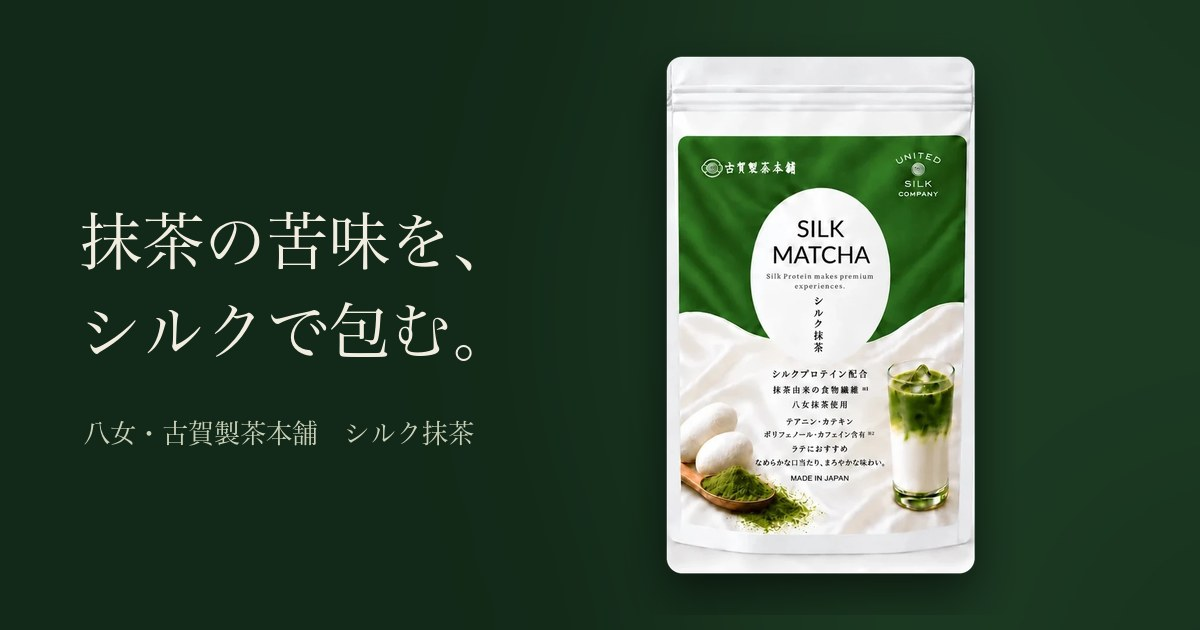
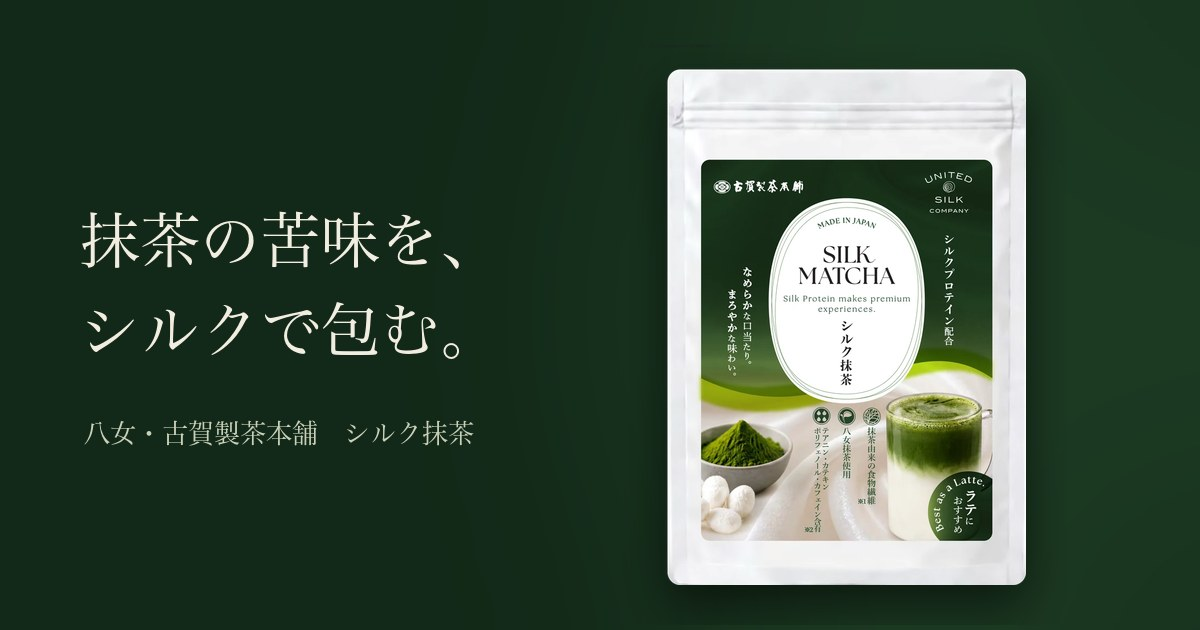
シルク抹茶デモ：新パッケージ（A案）とロゴを反映

diff --git a/p/sm-d1888c64/index.html b/p/sm-d1888c64/index.html
@@ -14,7 +14,7 @@
 <meta name="theme-color" content="#122818">
 <link rel="preconnect" href="https://fonts.googleapis.com">
 <link rel="preconnect" href="https://fonts.gstatic.com" crossorigin>
-<link href="https://fonts.googleapis.com/css2?family=Shippori+Mincho+B1:wght@500;600;700;800&family=Noto+Sans+JP:wght@400;500;700&family=Cormorant+Garamond:ital,wght@0,500;0,600;1,500&display=swap" rel="stylesheet">
+<link href="https://fonts.googleapis.com/css2?family=Marcellus&family=Shippori+Mincho+B1:wght@500;600;700;800&family=Noto+Sans+JP:wght@400;500;700&family=Cormorant+Garamond:ital,wght@0,500;0,600;1,500&display=swap" rel="stylesheet">
 <style>
 :root{
   --deep:#122818; --matcha:#24472b; --leaf:#7aa244; --pale:#dfe6cf;
@@ -69,13 +69,18 @@ h1,h2,h3{font-family:var(--mincho);font-weight:700;letter-spacing:.08em;font-fea
 .ring svg{position:absolute;inset:0;width:100%;height:100%}
 .ring circle{fill:none;stroke:var(--leaf);stroke-width:1;stroke-dasharray:503;stroke-dashoffset:503;transform:rotate(-90deg);transform-origin:center}
 .ring .t{writing-mode:vertical-rl;font-family:var(--mincho);font-weight:600;font-size:17px;letter-spacing:.3em;color:var(--cream);margin-top:.3em;line-height:1}
-.pc{position:absolute;left:0;right:0;top:calc(50% + 110px);text-align:center;font-family:var(--en);font-weight:600;font-size:13px;letter-spacing:.3em;color:#aeb99c}
+.lwrap{display:flex;flex-direction:column;align-items:center;gap:22px}
+.ldlogo{height:min(200px,26vh);width:auto;opacity:0;filter:drop-shadow(0 20px 40px rgba(0,0,0,.35))}
+.lbar{width:120px;height:1px;background:rgba(255,255,255,.15);overflow:hidden}
+.lbar i{display:block;height:100%;background:var(--leaf);transform-origin:left;transform:scaleX(0)}
+.pc{text-align:center;font-family:var(--en);font-weight:600;font-size:13px;letter-spacing:.3em;color:#aeb99c}
 
 /* header（固定・動かさない） */
 .hd{position:fixed;inset:0 0 auto;z-index:60;height:64px;display:flex;justify-content:space-between;align-items:center;padding:0 var(--gut);color:var(--cream);transition:background-color .5s linear,color .5s linear,box-shadow .5s linear}
 .hd.solid{background:rgba(250,248,242,.95);-webkit-backdrop-filter:blur(12px);backdrop-filter:blur(12px);color:var(--ink);box-shadow:0 1px 0 var(--line)}
-.brand{display:flex;align-items:baseline;gap:12px}
-.brand .en{font-family:var(--en);font-weight:600;font-size:17px;letter-spacing:.32em}
+.brand{display:flex;align-items:center;gap:12px}
+.blogo{height:40px;width:auto;filter:drop-shadow(0 2px 6px rgba(0,0,0,.2))}
+.brand .en{font-family:"Marcellus",serif;font-size:18px;letter-spacing:.2em}
 .brand .ja{font-family:var(--mincho);font-size:12px;letter-spacing:.2em;opacity:.8}
 .hd nav{display:flex;gap:28px;font-family:var(--mincho);font-size:14px;letter-spacing:.14em}
 .hd nav a{position:relative;opacity:.85}
@@ -302,7 +307,8 @@ form .send{justify-self:center;margin-top:10px}
 .thanks.on path{stroke-dashoffset:0}
 
 footer{background:var(--deep);color:#a9b39b;padding:100px 20px 130px;text-align:center;font-size:13px;line-height:2.2;overflow:hidden}
-footer .huge{font-family:var(--mincho);font-weight:800;font-size:clamp(60px,14vw,210px);line-height:1;color:var(--cream);letter-spacing:.14em;white-space:nowrap;margin-bottom:36px}
+.flogo{height:180px;width:auto;margin:0 auto 40px;display:block}
+footer .huge{font-family:"Marcellus",serif;font-size:clamp(50px,12vw,190px);line-height:1;color:rgba(242,237,225,.12);letter-spacing:.12em;white-space:nowrap;margin-bottom:36px}
 .demo-note{display:inline-block;margin-top:18px;padding:4px 14px;border:1px solid rgba(255,255,255,.2);border-radius:99px;font-size:11px;letter-spacing:.1em}
 
 .sbuy{position:fixed;left:12px;right:12px;bottom:calc(12px + env(safe-area-inset-bottom));z-index:60;display:none;align-items:center;justify-content:space-between;gap:12px;background:rgba(18,40,24,.95);-webkit-backdrop-filter:blur(10px);backdrop-filter:blur(10px);color:var(--cream);border-radius:16px;padding:9px 9px 9px 18px;transform:translateY(160%);transition:transform .6s var(--ease)}
@@ -374,15 +380,11 @@ footer .huge{font-family:var(--mincho);font-weight:800;font-size:clamp(60px,14vw
 <div class="cur" aria-hidden="true"></div><div class="cur-r" aria-hidden="true"></div>
 
 <div id="loader" aria-hidden="true">
-  <div class="ring">
-    <svg viewBox="0 0 170 170"><circle cx="85" cy="85" r="80" id="ldc"/></svg>
-    <span class="t">シルク抹茶</span>
-  </div>
-  <div class="pc"><span id="ldn">0</span>%</div>
+  <div class="lwrap"><img class="ldlogo" src="logo_oval.png" alt="" width="458" height="600"><div class="lbar"><i id="ldc"></i></div><div class="pc"><span id="ldn">0</span>%</div></div>
 </div>
 
 <header class="hd" id="hd">
-  <a href="#top" class="brand"><span class="en">SILK MATCHA</span><span class="ja">シルク抹茶</span></a>
+  <a href="#top" class="brand"><img class="blogo" src="logo_oval.png" alt="" width="458" height="600"><span class="en">SILK MATCHA</span><span class="ja">シルク抹茶</span></a>
   <nav>
     <a href="#mech">しくみ</a>
     <a href="#spin">一袋</a>
@@ -636,7 +638,8 @@ footer .huge{font-family:var(--mincho);font-weight:800;font-size:clamp(60px,14vw
 </main>
 
 <footer>
-  <div class="huge" id="huge">シルク抹茶</div>
+  <img class="flogo" src="logo_oval.png" alt="SILK MATCHA シルク抹茶" width="458" height="600">
+  <div class="huge" id="huge">SILK MATCHA</div>
   販売者：AMASOU（仮）　製造者：株式会社古賀製茶本舗<br>
   企画・制作　株式会社NOKTOA<br>
   <span class="demo-note">提案用デモ｜価格・リンクは仮のものです</span>
@@ -672,7 +675,7 @@ $$('a[href^="#"]').forEach(a=>a.addEventListener('click',e=>{const id=a.getAttri
 $$('.split .ph').forEach(ph=>{ ph.innerHTML=[...ph.textContent].map(c=>`<span class="sp"><i>${c}</i></span>`).join(''); });
 
 function pouchMesh(texF,texB){
-  const g=new THREE.Group(), W=1, H=886/530;
+  const g=new THREE.Group(), W=1, H=994/720;
   const mk=(tex,flip)=>{
     const geo=new THREE.PlaneGeometry(W,H,32,48), p=geo.attributes.position;
     for(let i=0;i<p.count;i++){ const x=p.getX(i), y=p.getY(i); const z=(0.09-(x*x)*0.36)*(1-Math.pow(Math.abs(y)/(H/2),6)*0.9); p.setZ(i,flip?-z:z); }
@@ -726,7 +729,7 @@ function initHero(){
   let base=.6, yoff=-.2;
   const clock=new THREE.Clock();
   (function loop(){ requestAnimationFrame(loop); if(!S.vis) return;
-    if(S.fit()){ const [w,h]=S.size(); bgU.r.value.set(w,h); const a=w/h; base=Math.min(.62,a*1.05); yoff=a<1?-.02:-.22; }
+    if(S.fit()){ const [w,h]=S.size(); bgU.r.value.set(w,h); const a=w/h; base=Math.min(.8,a*1.2); yoff=a<1?-.02:-.22; }
     const t=clock.getElapsedTime(); mouse.x+=(mouse.tx-mouse.x)*.05; mouse.y+=(mouse.ty-mouse.y)*.05;
     bgU.t.value=t; bgU.m.value.set(mouse.x,-mouse.y);
     pouch.scale.setScalar(Math.max(base*heroState.s,.001));
@@ -747,7 +750,7 @@ function initSpin(){
   let base=.6, yoff=-.1; const lr=(a,b,k)=>a+(b-a)*k;
   const clock=new THREE.Clock();
   (function loop(){ requestAnimationFrame(loop); if(!S.vis) return;
-    if(S.fit()){ const [w,h]=S.size(), a=w/h; base=Math.min(.62,a*.9); yoff=a<1?.16:-.1; }
+    if(S.fit()){ const [w,h]=S.size(), a=w/h; base=Math.min(.78,a*1.05); yoff=a<1?.16:-.1; }
     const t=clock.getElapsedTime(), p=spinP;
     const ry=p<.42?lr(-.55,.3,p/.42):p<.58?lr(.3,Math.PI-.3,ease((p-.42)/.16)):lr(Math.PI-.3,Math.PI+.5,(p-.58)/.42);
     pouch.rotation.y=ry+mouse.x*.2; pouch.rotation.x=Math.sin(p*Math.PI)*.15+mouse.y*.1;
@@ -790,7 +793,7 @@ function pourDraw(p){
   pSteps.forEach((e,k)=>e.style.opacity=(.25+.75*clamp((p-k*.25)/.12)).toFixed(3));
 }
 
-const ldc=$('#ldc'), ldn=$('#ldn');
+const ldc=$('#ldc'), ldn=$('#ldn'), logoEl=$('.ldlogo');
 const intro=gsap.timeline({paused:true});
 intro.to('#loader',{clipPath:'inset(0 0 100% 0)',duration:1.1,ease:'expo.inOut'})
      .add(()=>{document.body.classList.remove('lock'); lenis&&lenis.start(); ScrollTrigger.refresh();},'-=.4')
@@ -798,7 +801,7 @@ intro.to('#loader',{clipPath:'inset(0 0 100% 0)',duration:1.1,ease:'expo.inOut'}
      .fromTo(heroState,{s:0,rot:-2.6},{s:1,rot:0,duration:2,ease:'expo.out'},'<')
      .fromTo('.hx',{opacity:0,y:20},{opacity:1,y:0,duration:1.1,stagger:.1,ease:'expo.out'},'-=1.5');
 const lp={v:0};
-gsap.to(lp,{v:1,duration:RM?.01:1.5,ease:'power2.inOut',onUpdate(){ ldc.style.strokeDashoffset=503*(1-lp.v); ldn.textContent=Math.round(lp.v*100); },onComplete(){ intro.play(); }});
+gsap.to(lp,{v:1,duration:RM?.01:1.5,ease:'power2.inOut',onUpdate(){ ldc.style.transform=`scaleX(${lp.v.toFixed(3)})`; logoEl.style.opacity=Math.min(1,lp.v*2).toFixed(2); logoEl.style.transform=`scale(${(.94+lp.v*.06).toFixed(3)})`; ldn.textContent=Math.round(lp.v*100); },onComplete(){ intro.play(); }});
 
 gsap.to('.hero .ui, .vmark',{yPercent:-14,opacity:0,ease:'none',scrollTrigger:{trigger:'.hero',start:'top top',end:'bottom top',scrub:true}});
 gsap.to(heroState,{y:.6,ease:'none',scrollTrigger:{trigger:'.hero',start:'top top',end:'bottom top',scrub:true}});

diff --git a/p/sm-d1888c64/affiliate/index.html b/p/sm-d1888c64/affiliate/index.html
@@ -153,7 +153,7 @@ tr.total td{font-weight:700;background:rgba(122,162,68,.1)}
       <p class="sub">LPを「売れる受け皿」にして、<br>紹介者ごとの売上を自動で記録する。</p>
       <p class="by">AMASOU 御中<br>2026年9月　株式会社NOKTOA</p>
     </div>
-    <img src="../pouch_cut.webp" alt="シルク抹茶 パッケージ" width="530" height="886">
+    <img src="../pouch_cut.webp" alt="シルク抹茶 パッケージ" width="720" height="994">
   </div>
 </section>
 
